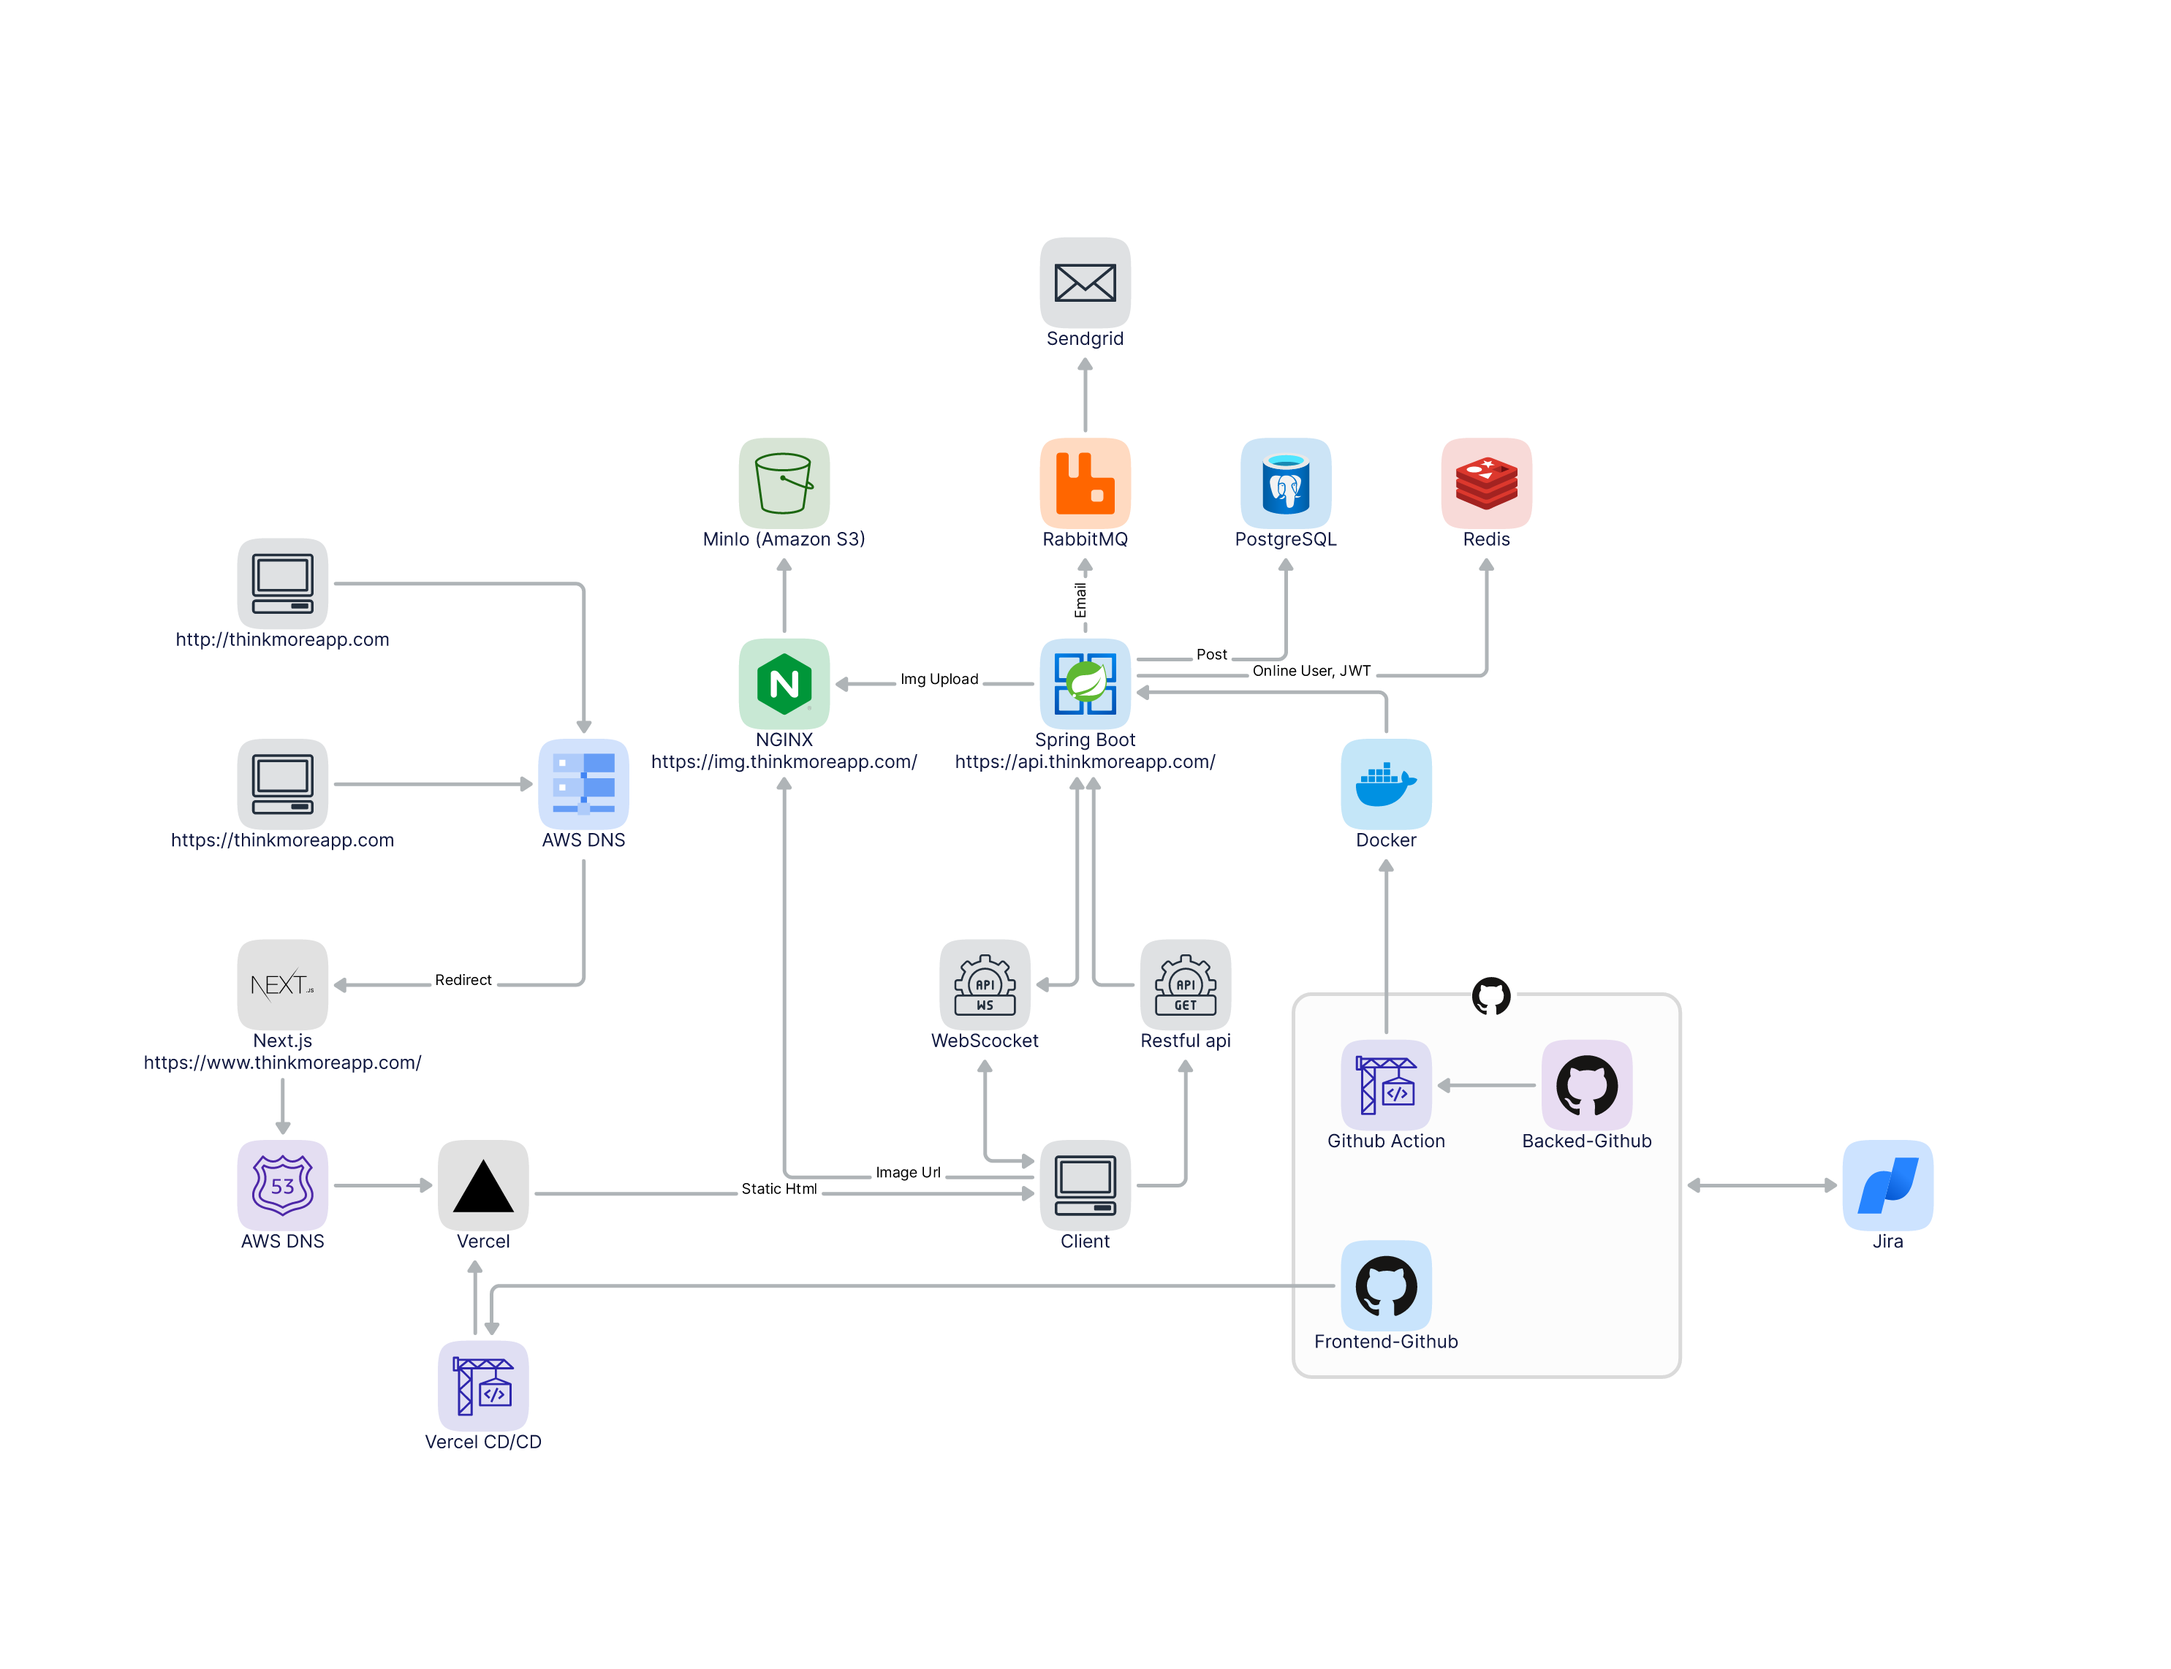
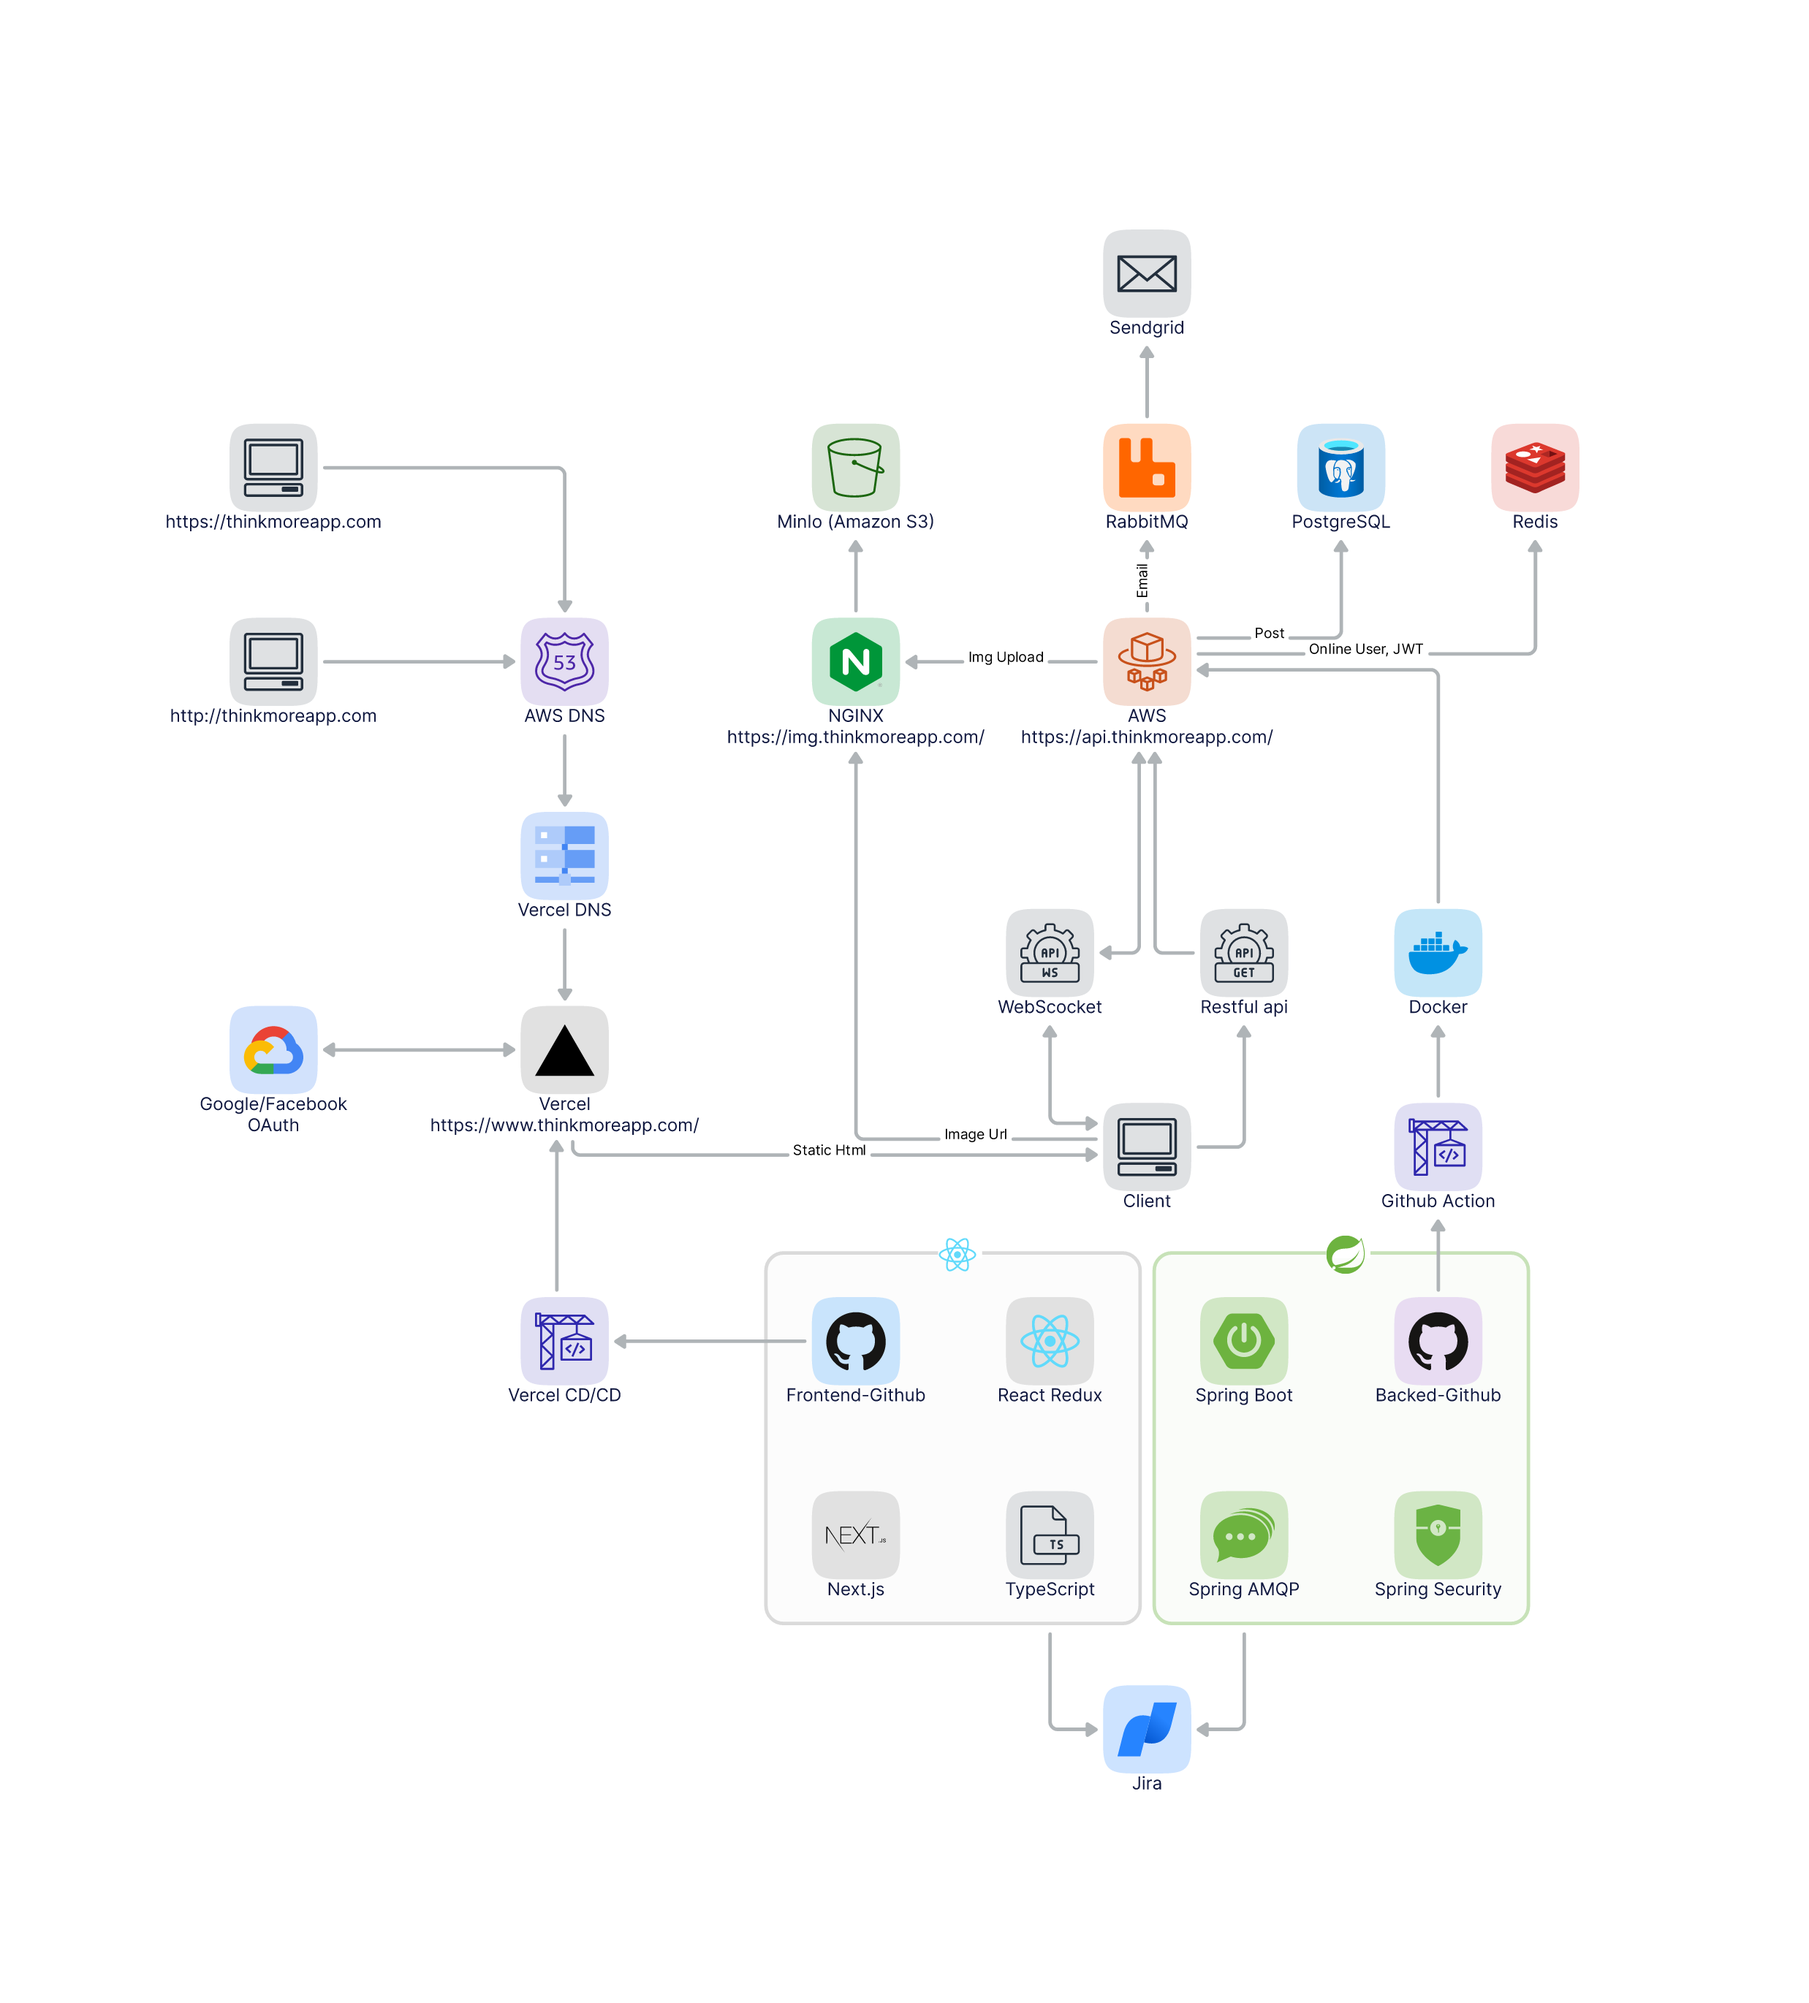
fix: update technology stack and architecture diagram (#197)

diff --git a/README.md b/README.md
@@ -43,7 +43,7 @@
 11. Sockjs (websocket)
 12. Sendgrid (Email)
 
-### Architecture diagram
+### Technology stack and architecture diagram
 
 <p align="center">
   <img src="./public/ThinkMore.svg">
